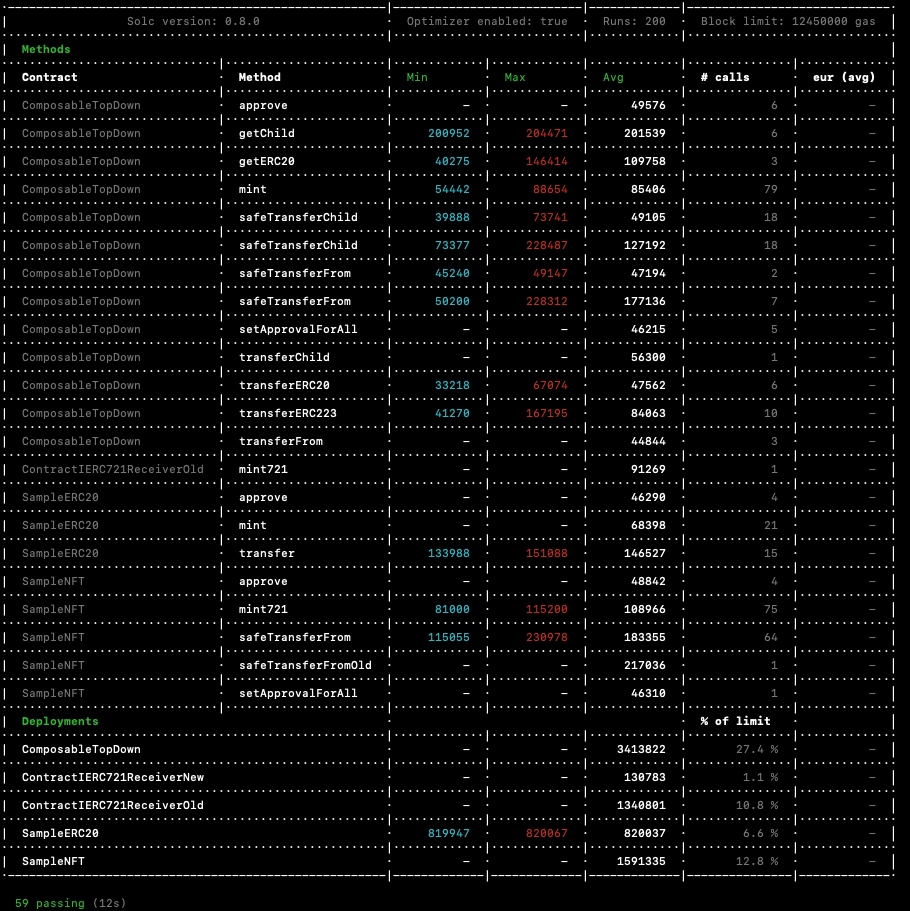
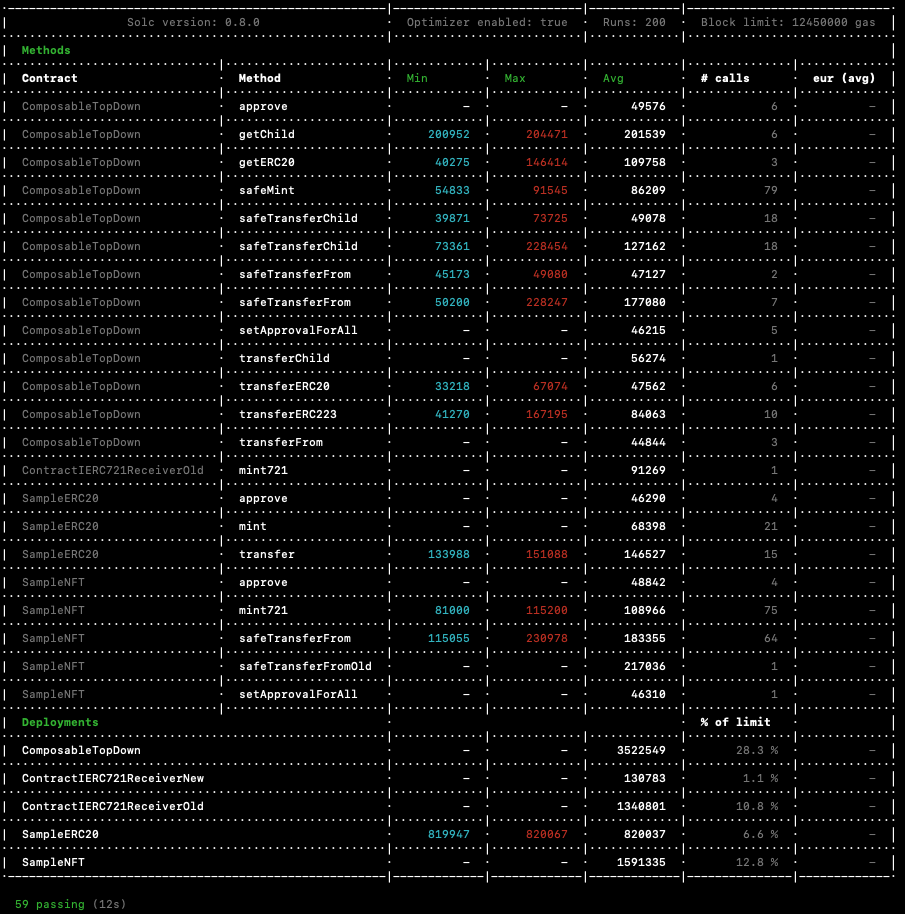
fix: mint -> safeMint

Changed region(s): [[0.0, 0.0, 0.9901, 1.0], [0.1238, 0.0, 0.3094, 0.0307]]

diff --git a/test/composable-top-down.js b/test/composable-top-down.js
@@ -44,7 +44,7 @@ describe('ComposableTopDown', async () => {
             // mint
             await sampleNFTInstance.mint721(alice.address, NFTHash);
 
-            await composableTopDownInstance.mint(alice.address);
+            await composableTopDownInstance.safeMint(alice.address);
         });
 
         it('Should revert when trying to get balanceOf zero address', async () => {
@@ -487,7 +487,7 @@ describe('ComposableTopDown', async () => {
                 const expectedFirstTokenTotalChildTokens = 1;
 
                 beforeEach(async () => {
-                    await composableTopDownInstance.mint(alice.address);
+                    await composableTopDownInstance.safeMint(alice.address);
                     await sampleNFTInstance.mint721(alice.address, secondNFTHash);
 
                     await sampleNFTInstance
@@ -606,7 +606,7 @@ describe('ComposableTopDown', async () => {
             // mint
             await sampleERC20Instance.mint(alice.address, mintTokensAmount);
 
-            await composableTopDownInstance.mint(alice.address);
+            await composableTopDownInstance.safeMint(alice.address);
         });
 
         it('Should have proper token balance', async () => {
@@ -852,7 +852,7 @@ describe('ComposableTopDown', async () => {
         const mintedPerNFT = 3;
 
         beforeEach(async () => {
-            await composableTopDownInstance.mint(alice.address);
+            await composableTopDownInstance.safeMint(alice.address);
         });
 
         it('Should return proper totals after addition and removal', async () => {
@@ -942,8 +942,8 @@ describe('ComposableTopDown', async () => {
             beforeEach(async () => {
                 sampleNFTInstance = await SampleNFT.deploy();
 
-                await composableTopDownInstance.mint(alice.address);
-                await composableTopDownInstance.mint(bob.address);
+                await composableTopDownInstance.safeMint(alice.address);
+                await composableTopDownInstance.safeMint(bob.address);
 
                 for (let i = 1; i <= 5; i++) {
                     await sampleNFTInstance.mint721(alice.address, i.toString());
@@ -974,8 +974,8 @@ describe('ComposableTopDown', async () => {
 
         describe('5 different NFTs', async () => {
             beforeEach(async () => {
-                await composableTopDownInstance.mint(alice.address);
-                await composableTopDownInstance.mint(bob.address);
+                await composableTopDownInstance.safeMint(alice.address);
+                await composableTopDownInstance.safeMint(bob.address);
 
                 const [nfts, _] = await setUpTestTokens(5, 0);
                 nftInstances = nfts;
@@ -1009,8 +1009,8 @@ describe('ComposableTopDown', async () => {
         beforeEach(async () => {
             secondComposableTopDownInstance = await ComposableTopDown.deploy();
 
-            await composableTopDownInstance.mint(alice.address);
-            await secondComposableTopDownInstance.mint(bob.address);
+            await composableTopDownInstance.safeMint(alice.address);
+            await secondComposableTopDownInstance.safeMint(bob.address);
         });
 
         describe('NFTs', async () => {
@@ -1281,18 +1281,18 @@ describe('ComposableTopDown', async () => {
 
             // Create alice and bob accounts
             erc998Accounts = await ComposableTopDown.connect(owner).deploy();
-            await erc998Accounts.mint(alice.address);
-            await erc998Accounts.mint(bob.address);
+            await erc998Accounts.safeMint(alice.address);
+            await erc998Accounts.safeMint(bob.address);
 
             // Create two characters
             erc998Characters = await ComposableTopDown.connect(owner).deploy();
-            await erc998Characters.mint(owner.address); // first character
-            await erc998Characters.mint(owner.address); // second character
+            await erc998Characters.safeMint(owner.address); // first character
+            await erc998Characters.safeMint(owner.address); // second character
 
             erc998Weapons = await ComposableTopDown.connect(owner).deploy();
-            await erc998Weapons.mint(owner.address); // id 1
-            await erc998Weapons.mint(owner.address); // id 2
-            await erc998Weapons.mint(owner.address); // id 3
+            await erc998Weapons.safeMint(owner.address); // id 1
+            await erc998Weapons.safeMint(owner.address); // id 2
+            await erc998Weapons.safeMint(owner.address); // id 3
         });
 
         it('Should successfully populate accounts and then showcase how the deepest level NFT is transferred', async () => {
